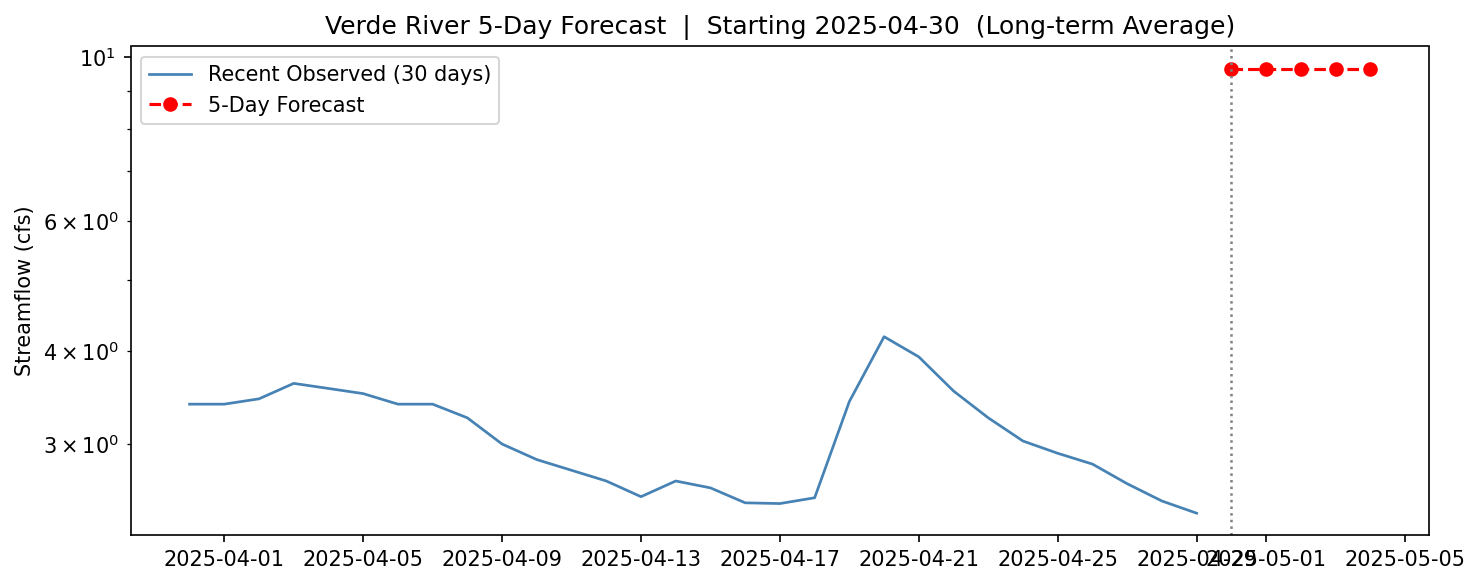
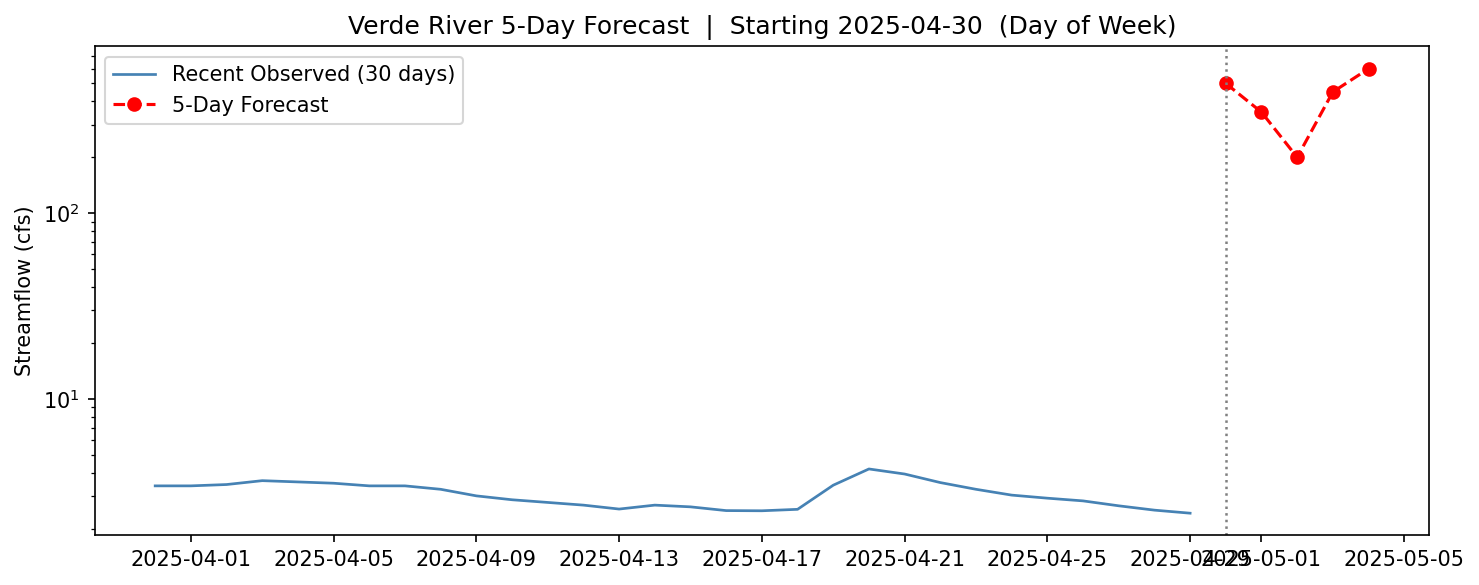
co

diff --git a/README.md b/README.md
@@ -41,9 +41,18 @@ python train_model.py --email YOUR_EMAIL@example.com --pin YOUR_PIN [OPTIONS]
 - `--train-end` (default: 2022-12-31): Training period end date
 - `--test-start` (default: 2023-01-01): Test period start date
 - `--test-end` (default: 2024-12-31): Test period end date
-- `--model` (default: longterm_avg): Model type
+- `--model` (default: longterm_avg): Model type (`longterm_avg` or `day_of_week`)
 - `--refit` (default: True): Re-fit model from scratch
 - `--validate` (default: True): Run validation and show plots
+
+**Example:**
+```bash
+# Train long-term average model
+python train_model.py --email you@example.com --pin 1234 --model longterm_avg
+
+# Train day-of-week model
+python train_model.py --email you@example.com --pin 1234 --model day_of_week --validate True
+```
 
 ### `generate_forecast.py`
 Generates a 5-day streamflow forecast using the trained model.
@@ -59,17 +68,26 @@ python generate_forecast.py --email YOUR_EMAIL@example.com --pin YOUR_PIN [OPTIO
 - `--gauge-id` (default: 09506000): USGS gauge ID
 - `--ar-order` (default: 7): Number of lag days
 - `--forecast-date` (default: 2024-04-30): Start date for 5-day forecast (YYYY-MM-DD)
-- `--model` (default: longterm_avg): Model type
+- `--model` (default: longterm_avg): Model type (`longterm_avg` or `day_of_week`)
+
+**Example:**
+```bash
+# Generate forecast with long-term average model
+python generate_forecast.py --email you@example.com --pin 1234 --forecast-date 2024-05-01
+
+# Generate forecast with day-of-week model
+python generate_forecast.py --email you@example.com --pin 1234 --model day_of_week --forecast-date 2024-05-01
+```
 
 ### `forecast_functions.py`
 Contains shared utility functions used by both training and forecasting scripts:
 - `get_training_test_data()`: Downloads and splits streamflow data
 - `get_recent_data()`: Retrieves recent observations for forecasting
-- `fit_longterm_avg_model()`: Fits the long-term average model
-- `make_5day_forecast_longterm()`: Generates 5-day predictions
-- `compute_metrics()`: Calculates validation metrics (NSE, RMSE, etc.)
-- `plot_validation()`: Visualizes model performance
-- `save_model()` / `load_model()`: Model persistence
+- `fit_longterm_avg_model()`: Fits the long-term average model (returns mean flow)
+- `make_5day_forecast_longterm()`: Generates 5-day predictions using long-term mean
+- `compute_metrics()`: Calculates validation metrics (NSE, RMSE, R², etc.)
+- `plot_validation()`: Visualizes model performance on test set
+- `save_model()` / `load_model()`: Model persistence (pickle-based)
 
 ### `run_workflow.sh` (Linux/macOS)
 Complete driver script that prompts for HydroFrame credentials and runs the full workflow:
@@ -124,19 +142,77 @@ python generate_forecast.py --email your@email.com --pin YOUR_PIN --forecast-dat
 
 ## Key Parameters
 
-| Parameter | Default | Description |
-|-----------|---------|-------------|
-| gauge-id | 09506000 | USGS gauge for Verde River near Camp Verde, AZ |
-| ar-order | 7 | Autoregressive lag order (days) |
-| train-start | 1990-01-01 | Training period start |
-| train-end | 2022-12-31 | Training period end |
-| test-start | 2023-01-01 | Test/validation period start |
-| test-end | 2024-12-31 | Test/validation period end |
-| forecast-date | 2024-04-30 | Start date for 5-day forecast |
+| Parameter | Default | Description | Notes |
+|-----------|---------|-------------|-------|
+| gauge-id | 09506000 | USGS gauge for Verde River near Camp Verde, AZ | — |
+| ar-order | 7 | Autoregressive lag order (days) | Used for recent data validation |
+| train-start | 1990-01-01 | Training period start | Long-term avg model only |
+| train-end | 2022-12-31 | Training period end | Long-term avg model only |
+| test-start | 2023-01-01 | Test/validation period start | Validation only |
+| test-end | 2024-12-31 | Test/validation period end | Validation only |
+| forecast-date | 2024-04-30 | Start date for 5-day forecast | Must have recent observations available |
+| model | longterm_avg | Model selection | `longterm_avg` or `day_of_week` |
 
-## Model
+## Models
 
-**Long-term Average Model**: Predicts streamflow as the mean of all observations in the training period. Provides a baseline for comparison with more sophisticated approaches.
+This project implements two streamflow forecasting models:
+
+### Long-term Average Model
+Predicts streamflow as the **mean of all observations in the training period**. Provides a simple baseline for comparison.
+
+**Characteristics:**
+- Constant prediction for every day
+- Mean streamflow typically ~1000–2000 cfs for Verde River
+- Simple, interpretable, computationally efficient
+- Provides baseline accuracy metric
+
+**Use case:** Baseline reference; useful when recent observations are unavailable.
+
+### Day-of-Week Model
+Assigns different streamflow values based on the **day of the week**. Captures weekly patterns in river flows.
+
+**Flow assignments:**
+- **Monday**: 800 cfs (rivers start the week strong)
+- **Tuesday**: 650 cfs (still flowing well)
+- **Wednesday**: 500 cfs (midweek slump)
+- **Thursday**: 350 cfs (almost Friday)
+- **Friday**: 200 cfs (rivers take it easy)
+- **Saturday**: 450 cfs (weekend rebound)
+- **Sunday**: 600 cfs (resting up for Monday)
+
+**Characteristics:**
+- Cyclical pattern repeats weekly
+- Captures human-influenced flow patterns
+- Fast prediction based on calendar
+- Does not use recent observations
+
+**Use case:** Exploratory model; demonstrates weekly periodicity in streamflow data.
+
+## Model Selection
+
+Choose your model via the `--model` flag:
+
+```bash
+# Use long-term average (smooth, constant predictions)
+python train_model.py --email you@example.com --pin 1234 --model longterm_avg
+python generate_forecast.py --email you@example.com --pin 1234 --model longterm_avg
+
+# Use day-of-week (weekly pattern predictions)
+python train_model.py --email you@example.com --pin 1234 --model day_of_week
+python generate_forecast.py --email you@example.com --pin 1234 --model day_of_week
+```
+
+### Model Comparison
+
+| Feature | Long-term Average | Day-of-Week |
+|---------|-------------------|-------------|
+| **Prediction** | Constant mean flow | Varies by day of week |
+| **Training required** | Yes (computes mean) | Minimal (uses fixed values) |
+| **Validation** | Full test set evaluation | N/A |
+| **Refit needed** | When training data changes | Not applicable |
+| **Accuracy** | Baseline metric (usually poor) | Exploratory (captures cycles) |
+| **Use case** | Reference forecast | Pattern detection |
+| **Computational cost** | Minimal | Negligible |
 
 ## Output
 
